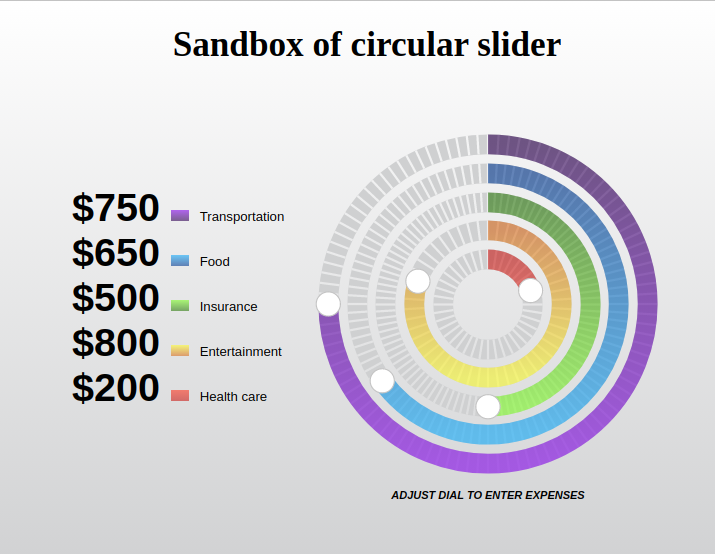
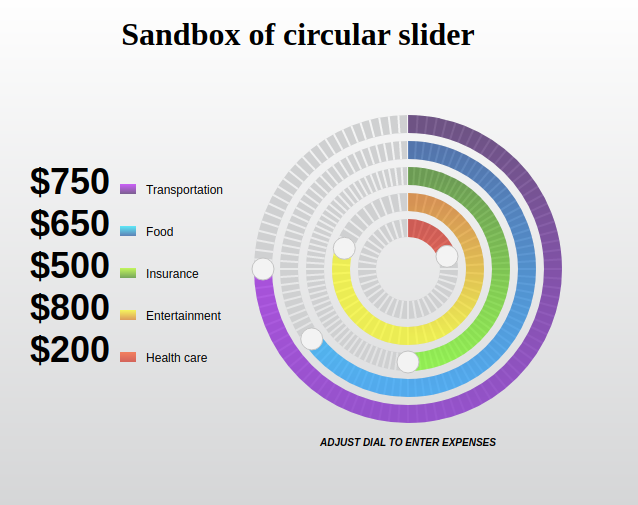
Improve gradient

Changed region(s): [[0.0298, 0.2079, 0.9232, 0.9208], [0.1787, 0.0297, 0.8041, 0.1188]]

diff --git a/src/scripts/circular-slider.js b/src/scripts/circular-slider.js
@@ -177,12 +177,16 @@ class CircularSlider {
     callback = undefined;
     container = undefined;
     circularSliderViewSvg = undefined;
-    progressViewCircle = undefined;
+    progressViewCircle1 = undefined;
+    progressViewCircleOffset1 = 1;
+    progressViewCircle2 = undefined;
+    progressViewCircleOffset2 = 1;
     gridViewCircle = undefined;
     endDotViewCircle = undefined;
 
 
     activeProgressColorStart = CircularSlider.getRandomColor();
+    activeProgressColorMiddle = CircularSlider.getRandomColor();
     activeProgressColorEnd = CircularSlider.getRandomColor();
     minValue = 0;
     value = 25;
@@ -297,7 +301,8 @@ class CircularSlider {
     calculateNotContainerRelatedStuff() {
         this.valueRangeSize = Math.abs(this.maxValue - this.minValue);
         this.steps = this.valueRangeSize / this.step;
-        this.activeProgressColorEnd = shadeColor(this.activeProgressColorStart, 200);
+        this.activeProgressColorMiddle = shadeColor(this.activeProgressColorStart, 150);
+        this.activeProgressColorEnd = shadeColor(this.activeProgressColorStart, 300);
         this.circumference = this.radius * TWO_PI;
         this.innerRadius = this.radius - this.progressWidth / 2;
         this.outerRadius = this.radius + this.progressWidth / 2;
@@ -379,38 +384,10 @@ class CircularSlider {
         this.circularSliderViewSvg.appendChild(this.gridViewCircle);
 
 
-        // TODO make something more similar to the conic gradient, probably with path instead of circle :/
-
-        let linearGradient = document.createElementNS(SVG_NS, 'linearGradient');
-        linearGradient.setAttribute("id", "gradient" + this.id);
-        linearGradient.setAttribute("x1", "0%");
-        linearGradient.setAttribute("y1", "0%");
-        linearGradient.setAttribute("x2", "100%");
-        linearGradient.setAttribute("y2", "0%");
-
-        let linearGradientStop = document.createElementNS(SVG_NS, 'stop');
-        linearGradientStop.setAttribute("offset", "0%");
-        linearGradientStop.setAttribute("stop-color", this.activeProgressColorEnd);
-        linearGradient.appendChild(linearGradientStop);
-
-        linearGradientStop = document.createElementNS(SVG_NS, 'stop');
-        linearGradientStop.setAttribute("offset", "100%");
-        linearGradientStop.setAttribute("stop-color", this.activeProgressColorStart);
-        linearGradient.appendChild(linearGradientStop);
-        this.circularSliderViewSvg.appendChild(linearGradient);
-
-
-        this.progressViewCircle = document.createElementNS(SVG_NS, 'circle');
-        this.progressViewCircle.classList.add('progress-circle');
-        this.progressViewCircle.setAttribute("r", `${this.radius}`);
-        this.progressViewCircle.setAttribute("stroke-width", this.progressWidth);
-        this.progressViewCircle.setAttribute("cx", this.relativeCenterPoint.x);
-        this.progressViewCircle.setAttribute("cy", this.relativeCenterPoint.y);
-        this.progressViewCircle.setAttribute("stroke", `url(#gradient${this.id})`);
-        // this.progressViewCircle.style.stroke = this.activeProgressColorStart;
-
-        this.progressViewCircle.style.strokeDasharray = `${this.circumference} ${this.circumference}`;
-        this.circularSliderViewSvg.appendChild(this.progressViewCircle);
+        // TODO make something more similar to the conic gradient, probably with path instead of circles :/
+        let half = Math.round(this.width / 2);
+        this.progressViewCircle1 = this.createProgressCircle(1, half, this.width, this.activeProgressColorStart, this.activeProgressColorMiddle);
+        this.progressViewCircle2 = this.createProgressCircle(2, 0, half, this.activeProgressColorEnd, this.activeProgressColorMiddle);
 
         this.endDotViewCircle = document.createElementNS(SVG_NS, 'circle');
         this.endDotViewCircle.classList.add('end-dot-circle');
@@ -418,13 +395,72 @@ class CircularSlider {
         this.circularSliderViewSvg.appendChild(this.endDotViewCircle);
     }
 
+    createProgressCircle(count, startX, endX, startColor, endColor,) {
+
+        let defsView = document.createElementNS(SVG_NS, 'defs');
+        let mask = document.createElementNS(SVG_NS, 'mask');
+        mask.setAttribute("id", `progress-mask${count}-${this.id}`);
+        mask.setAttribute("maskUnits", "userSpaceOnUse");
+
+        let rect = document.createElementNS(SVG_NS, 'rect');
+        rect.setAttribute("x", "0");
+        rect.setAttribute("y", startX);
+        rect.setAttribute("width", this.height);
+        rect.setAttribute("height", endX);
+        mask.appendChild(rect);
+        defsView.appendChild(mask);
+        this.circularSliderViewSvg.appendChild(defsView);
+
+
+        let linearGradient = document.createElementNS(SVG_NS, 'linearGradient');
+        linearGradient.setAttribute("id", `gradient${count}-${this.id}`);
+        linearGradient.setAttribute("x1", "0%");
+        linearGradient.setAttribute("y1", "0%");
+        linearGradient.setAttribute("x2", "100%");
+        linearGradient.setAttribute("y2", "0%");
+
+        let linearGradientStop = document.createElementNS(SVG_NS, 'stop');
+        linearGradientStop.setAttribute("offset", "0%");
+        linearGradientStop.setAttribute("stop-color", endColor);
+        linearGradient.appendChild(linearGradientStop);
+
+        linearGradientStop = document.createElementNS(SVG_NS, 'stop');
+        linearGradientStop.setAttribute("offset", "100%");
+        linearGradientStop.setAttribute("stop-color", startColor);
+        linearGradient.appendChild(linearGradientStop);
+        this.circularSliderViewSvg.appendChild(linearGradient);
+
+        let progressViewCircle = document.createElementNS(SVG_NS, 'circle');
+        progressViewCircle.classList.add('progress-circle');
+        progressViewCircle.setAttribute("r", `${this.radius}`);
+        progressViewCircle.setAttribute("stroke-width", this.progressWidth);
+        progressViewCircle.setAttribute("cx", this.relativeCenterPoint.x);
+        progressViewCircle.setAttribute("cy", this.relativeCenterPoint.y);
+        progressViewCircle.setAttribute("stroke", `url(#gradient${count}-${this.id})`);
+        progressViewCircle.setAttribute("mask", `url(#progress-mask${count}-${this.id})`);
+        progressViewCircle.style.strokeDasharray = `${this.circumference} ${this.circumference}`;
+        this.circularSliderViewSvg.appendChild(progressViewCircle);
+
+        return progressViewCircle;
+    }
+
     getValuePartOfRange() {
         return (Math.abs(this.value - this.minValue) / (this.valueRangeSize));
     }
 
     drawProgressSvg() {
-        const offset = this.circumference - this.getValuePartOfRange() * this.circumference;
-        this.progressViewCircle.style.strokeDashoffset = `${offset}`;
+        const valuePartOfRange = this.getValuePartOfRange();
+        const offset = this.circumference - valuePartOfRange * this.circumference;
+        if (valuePartOfRange <= 0.5 || (valuePartOfRange > 0.5 && this.progressViewCircleOffset1 < 0.5)) {
+            this.progressViewCircleOffset1 = valuePartOfRange;
+            this.progressViewCircle1.style.strokeDashoffset = `${offset}`;
+        }
+        if (valuePartOfRange >= 0.5 || (valuePartOfRange < 0.5 && this.progressViewCircleOffset2 > 0.5)) {
+            this.progressViewCircleOffset2 = valuePartOfRange;
+            this.progressViewCircle2.style.strokeDashoffset = `${offset}`;
+        }
+
+
     }
 
     positionDotSvgCircle() {

diff --git a/src/scripts/circular-slider-legend.js b/src/scripts/circular-slider-legend.js
@@ -67,7 +67,7 @@ class CircularSliderLegend {
     }
 
     applyColorOnSpan() {
-          this.colorSpan.style.background = `linear-gradient(to bottom, ${shadeColor(this.color,200)} ,  ${this.color})`;
+          this.colorSpan.style.background = `linear-gradient(to bottom, ${shadeColor(this.color,300)} ,  ${this.color})`;
     }
 
     applyLabelOnSpan() {

diff --git a/src/styles/circular-slider.css b/src/styles/circular-slider.css
@@ -30,7 +30,7 @@ svg.circular-slider .progress-circle {
 }
 
 svg.circular-slider .end-dot-circle {
-    fill: #ffffff;
+    fill: #f3f3f3;
     stroke: #c4c4c4;
 }
 

diff --git a/CHANGELOG.md b/CHANGELOG.md
@@ -5,6 +5,9 @@ follows the convention of [Keep A Changelog](http://keepachangelog.com/).
 
 
 ## [Unreleased]
+## [1.1.0] - 2021-05-08
+### Changed
+- Improving gradient on circular slider progress bar
 
 ## [1.0.0] - 2021-04-29
 ### Added
